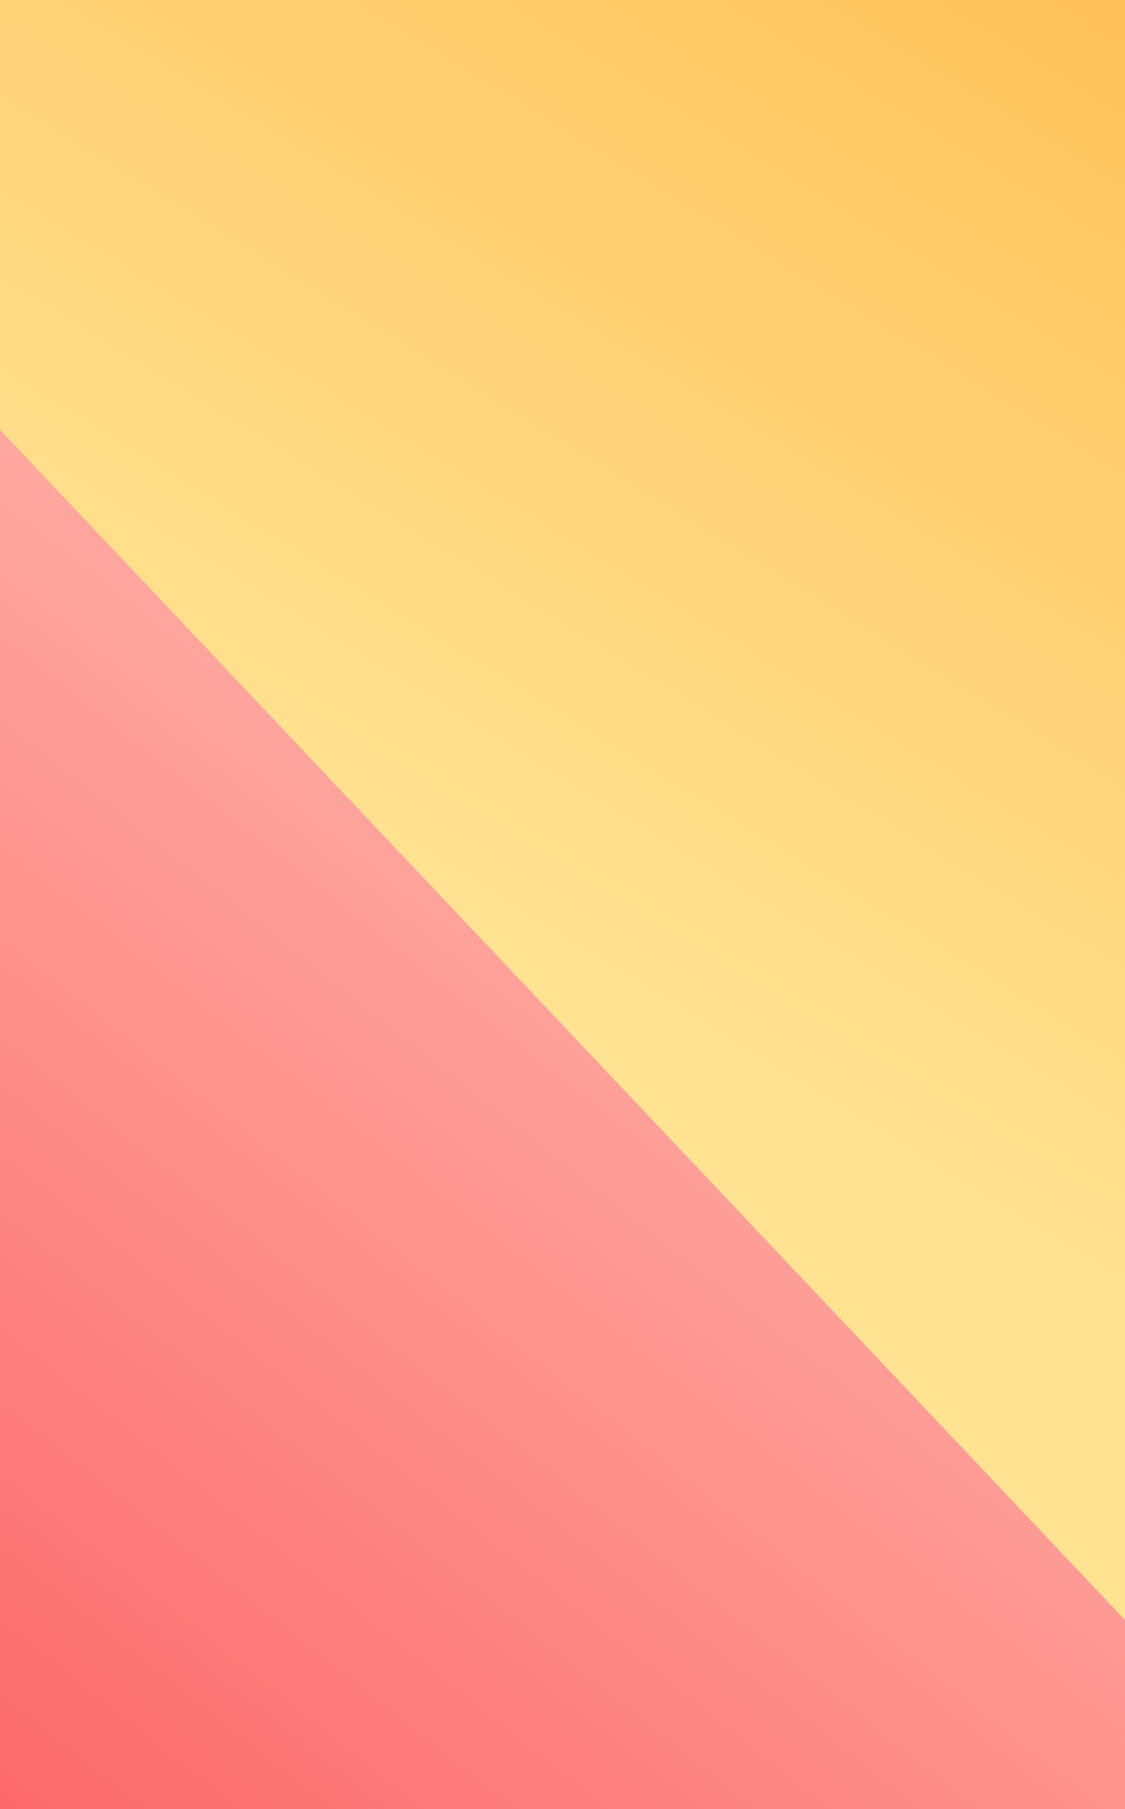
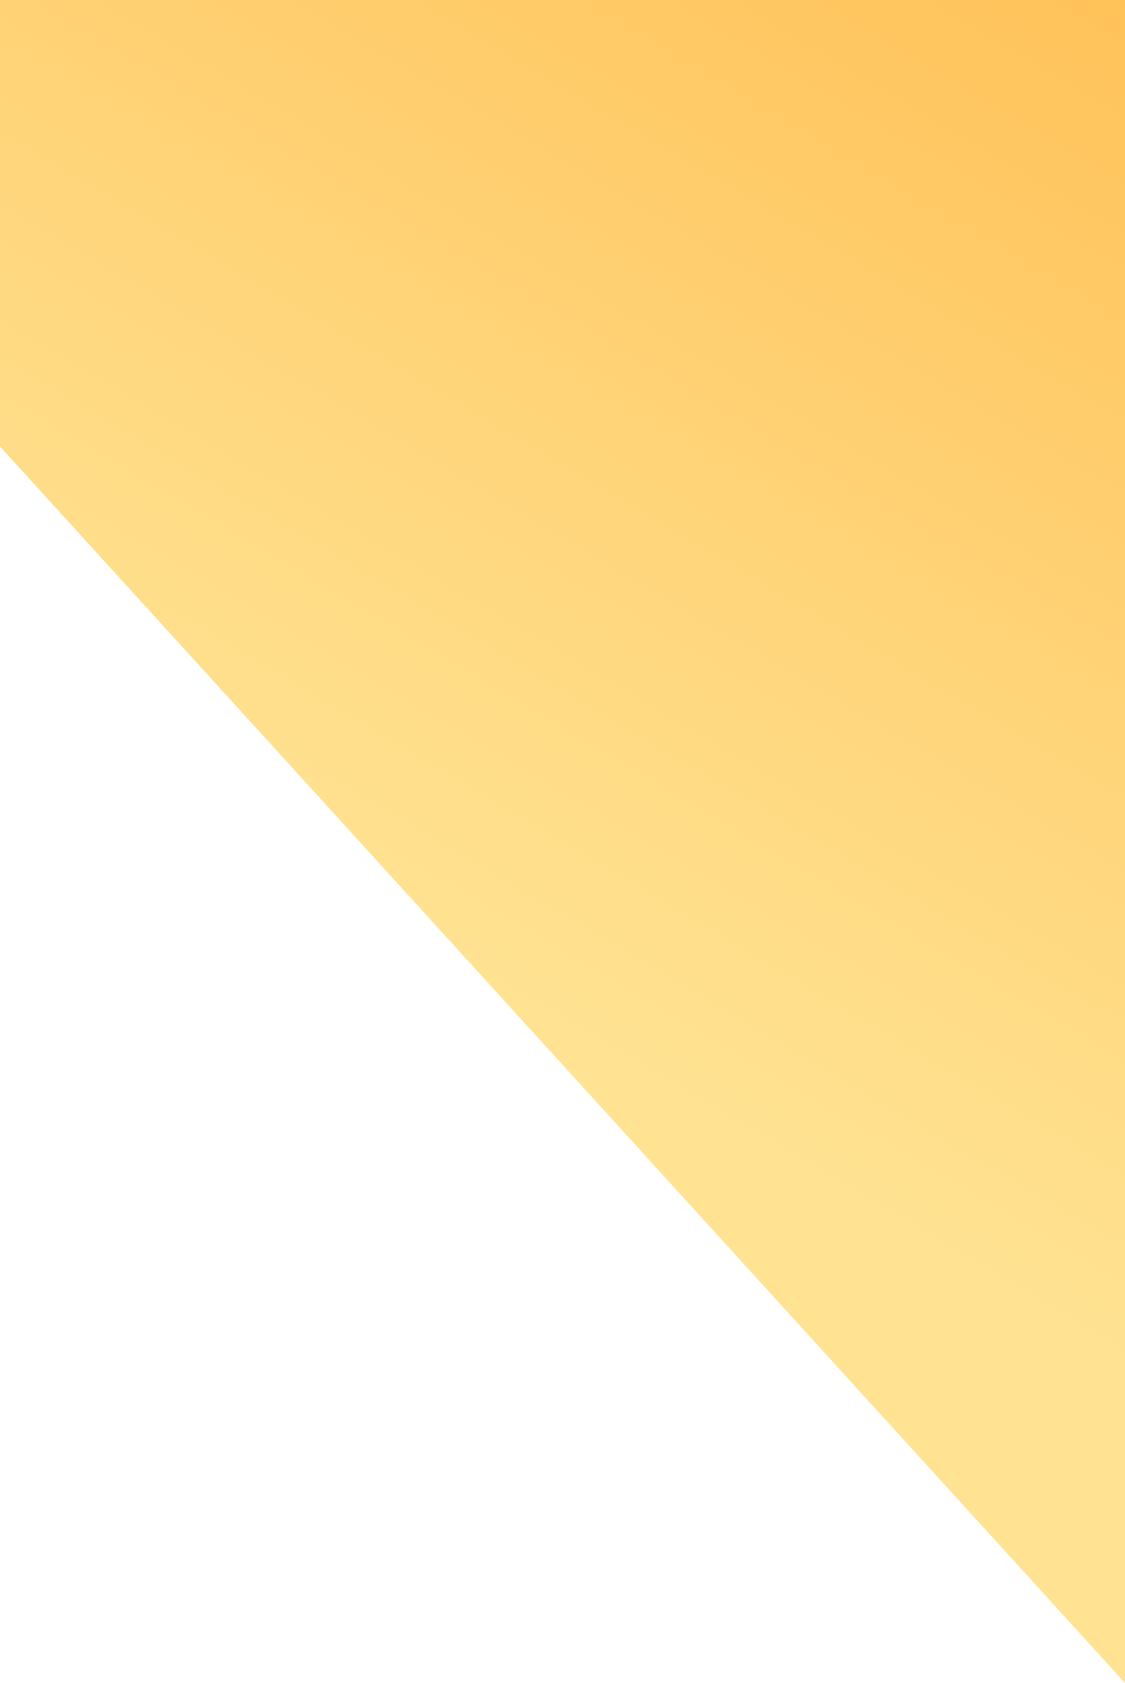
Signed-off-by: kirito <1737466486@qq.com>

diff --git a/html/weekly.html b/html/weekly.html
@@ -10,7 +10,7 @@
 		<link rel="stylesheet" type="text/css" href="../css/weekly.css"/>
 	</head>
 	<body>
-		<img src="../img/weekly_bg1.png"/>
+		<img src="../img/weekly_bg.png"/>
 		<div class="weekly_bg">
 				<img src="../img/weekly_top.png"/>
 			<div class="weekly_box">

diff --git a/css/weekly_report.css b/css/weekly_report.css
@@ -4,7 +4,7 @@
 }
 html{
 	width: 100%;
-	height: auto;
+	height: 100%;
 }
 body{
 	width: 100%;
